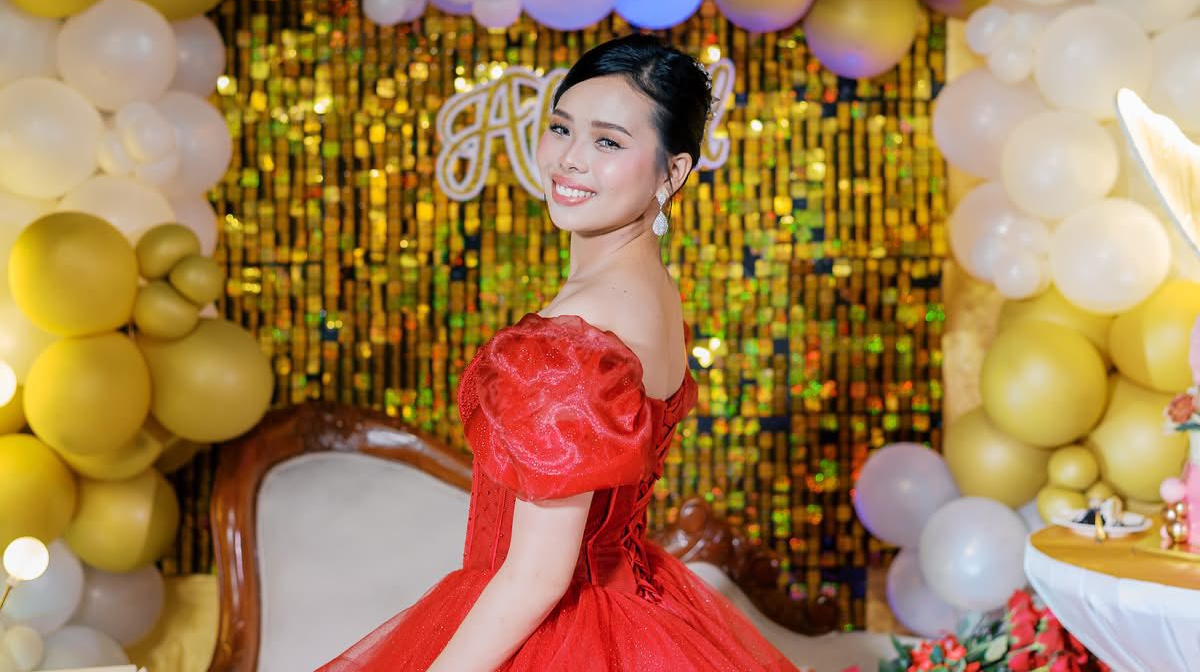
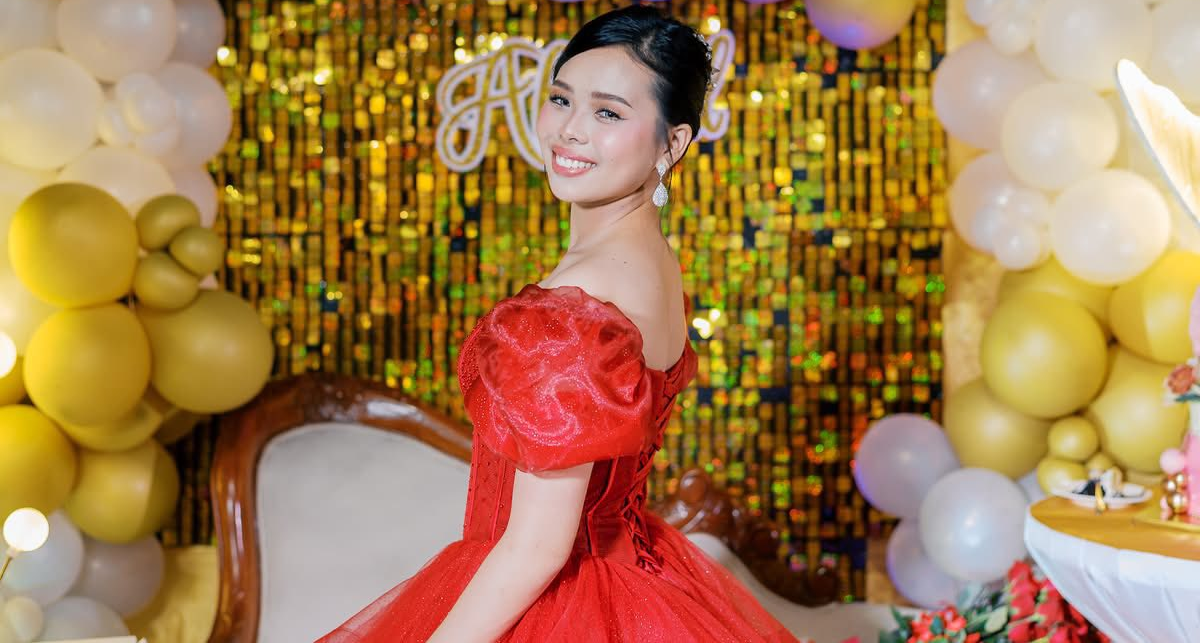
Update Exclusive Access venue images to use copy versions and new filenames

diff --git a/components/materials/other-packages.tsx b/components/materials/other-packages.tsx
@@ -75,7 +75,7 @@ export function OtherPackages() {
                 src="/images/materials/villa.jpg"
                 alt="Exclusive access to Villa Kathreyna"
                 fill
-                className="object-contain"
+                className="object-cover"
                 priority
               />
               <div className="absolute inset-0 bg-[#0e7c6b]/85" />
@@ -107,25 +107,25 @@ export function OtherPackages() {
                 src: "/images/materials/lobby.png",
                 label: "Lobby & Lounge",
               }, {
-                src: "/images/materials/duchess.png",
+                src: "/images/materials/duchess copy.png",
                 label: "Duchess Room",
               }, {
-                src: "/images/materials/prince.png",
+                src: "/images/materials/prince copy.png",
                 label: "Prince Room",
               }, {
-                src: "/images/materials/princess.png",
+                src: "/images/materials/princess copy.png",
                 label: "Princess Room",
               }, {
-                src: "/images/materials/queen.png",
+                src: "/images/materials/queen copy.png",
                 label: "Queen Room",
               }, {
-                src: "/images/materials/king.png",
+                src: "/images/materials/king copy.png",
                 label: "King Room",
               }, {
-                src: "/images/materials/garden-pool-full.png",
+                src: "/images/materials/garden-pool.png",
                 label: "Garden & Pool",
               }, {
-                src: "/images/materials/hall-full.png",
+                src: "/images/materials/hall.png",
                 label: "Event Hall",
               }].map((item) => (
                 <div key={item.label} className="flex flex-col items-center gap-1">
@@ -134,7 +134,7 @@ export function OtherPackages() {
                       src={item.src}
                       alt={item.label}
                       fill
-                      className="object-contain"
+                      className="object-cover"
                     />
                   </div>
                   <p className="font-sans text-[9px] text-[#3e5a52] leading-tight text-center">{item.label}</p>
@@ -288,7 +288,7 @@ export function OtherPackages() {
               src="/images/materials/wedding.jpg"
               alt="Wedding setup at Villa Kathreyna"
               fill
-              className="object-contain"
+              className="object-cover"
               priority
             />
             <div className="absolute inset-0 bg-gradient-to-b from-black/35 via-black/15 to-[#faf7f0]/60" />
@@ -413,7 +413,7 @@ export function OtherPackages() {
                 src="/images/materials/wedding-venue.png"
                 alt="Wedding venue decoration"
                 fill
-                className="object-contain"
+                className="object-cover"
               />
             </div>
 
@@ -480,7 +480,7 @@ export function OtherPackages() {
                   src="/images/materials/birthday.jpg"
                   alt="Birthday celebration setup"
                   fill
-                  className="object-contain"
+                  className="object-cover"
                 />
               </div>
               <div className="flex items-baseline justify-between mb-1.5">
@@ -527,7 +527,7 @@ export function OtherPackages() {
                   src="/images/materials/baptism.jpg"
                   alt="Baptism or celebration setup"
                   fill
-                  className="object-contain"
+                  className="object-cover"
                 />
               </div>
               <div className="flex items-baseline justify-between mb-1.5">
@@ -568,7 +568,7 @@ export function OtherPackages() {
                   src="/images/materials/debut.jpg"
                   alt="Debut celebration package A"
                   fill
-                  className="object-contain"
+                  className="object-cover"
                 />
               </div>
               <div className="flex items-baseline justify-between mb-1.5">
@@ -603,7 +603,7 @@ export function OtherPackages() {
                   src="/images/materials/debut.png"
                   alt="Debut celebration package B"
                   fill
-                  className="object-contain"
+                  className="object-cover"
                 />
               </div>
               <div className="flex items-baseline justify-between mb-1.5">

diff --git a/components/menu/page-catering-combined.tsx b/components/menu/page-catering-combined.tsx
@@ -145,7 +145,7 @@ export function PageCateringCombined({ pageNumber = 8 }: { pageNumber?: number }
               src="/images/banners/catering.jpg"
               alt="Catering dishes banner"
               fill
-              className="object-contain menu-banner-image"
+              className="object-cover menu-banner-image"
             />
           </div>
 
